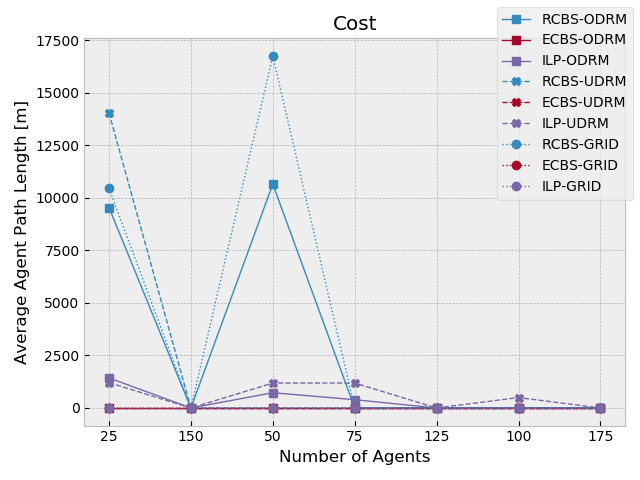
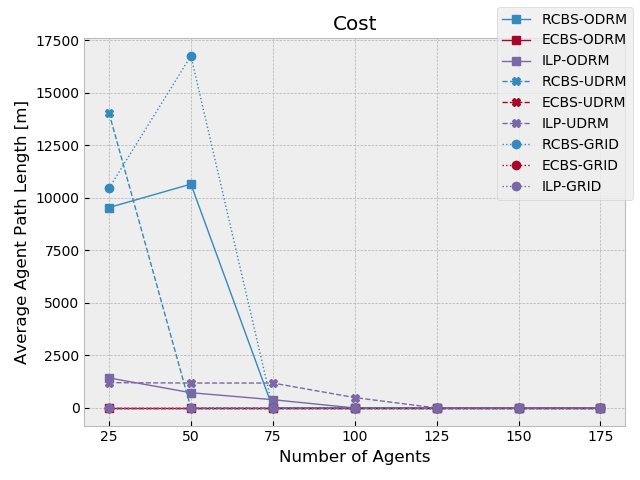
sorting agent ns

diff --git a/roadmaps/adamsmap_eval/script/eval_centralized_pathfinding_plot.py b/roadmaps/adamsmap_eval/script/eval_centralized_pathfinding_plot.py
@@ -65,6 +65,7 @@ if __name__ == "__main__":
             i_p = Planner[combination_name.split("-")[0]].value
             combination_data = fig_data[combination_name]
             agents_ns_strs = combination_data.keys()
+            agents_ns_strs = sorted(agents_ns_strs, key=int)
             if fig_title == 'successful':
                 to_plot = map(
                     lambda k: 100. * np.count_nonzero(np.array(combination_data[k]))
